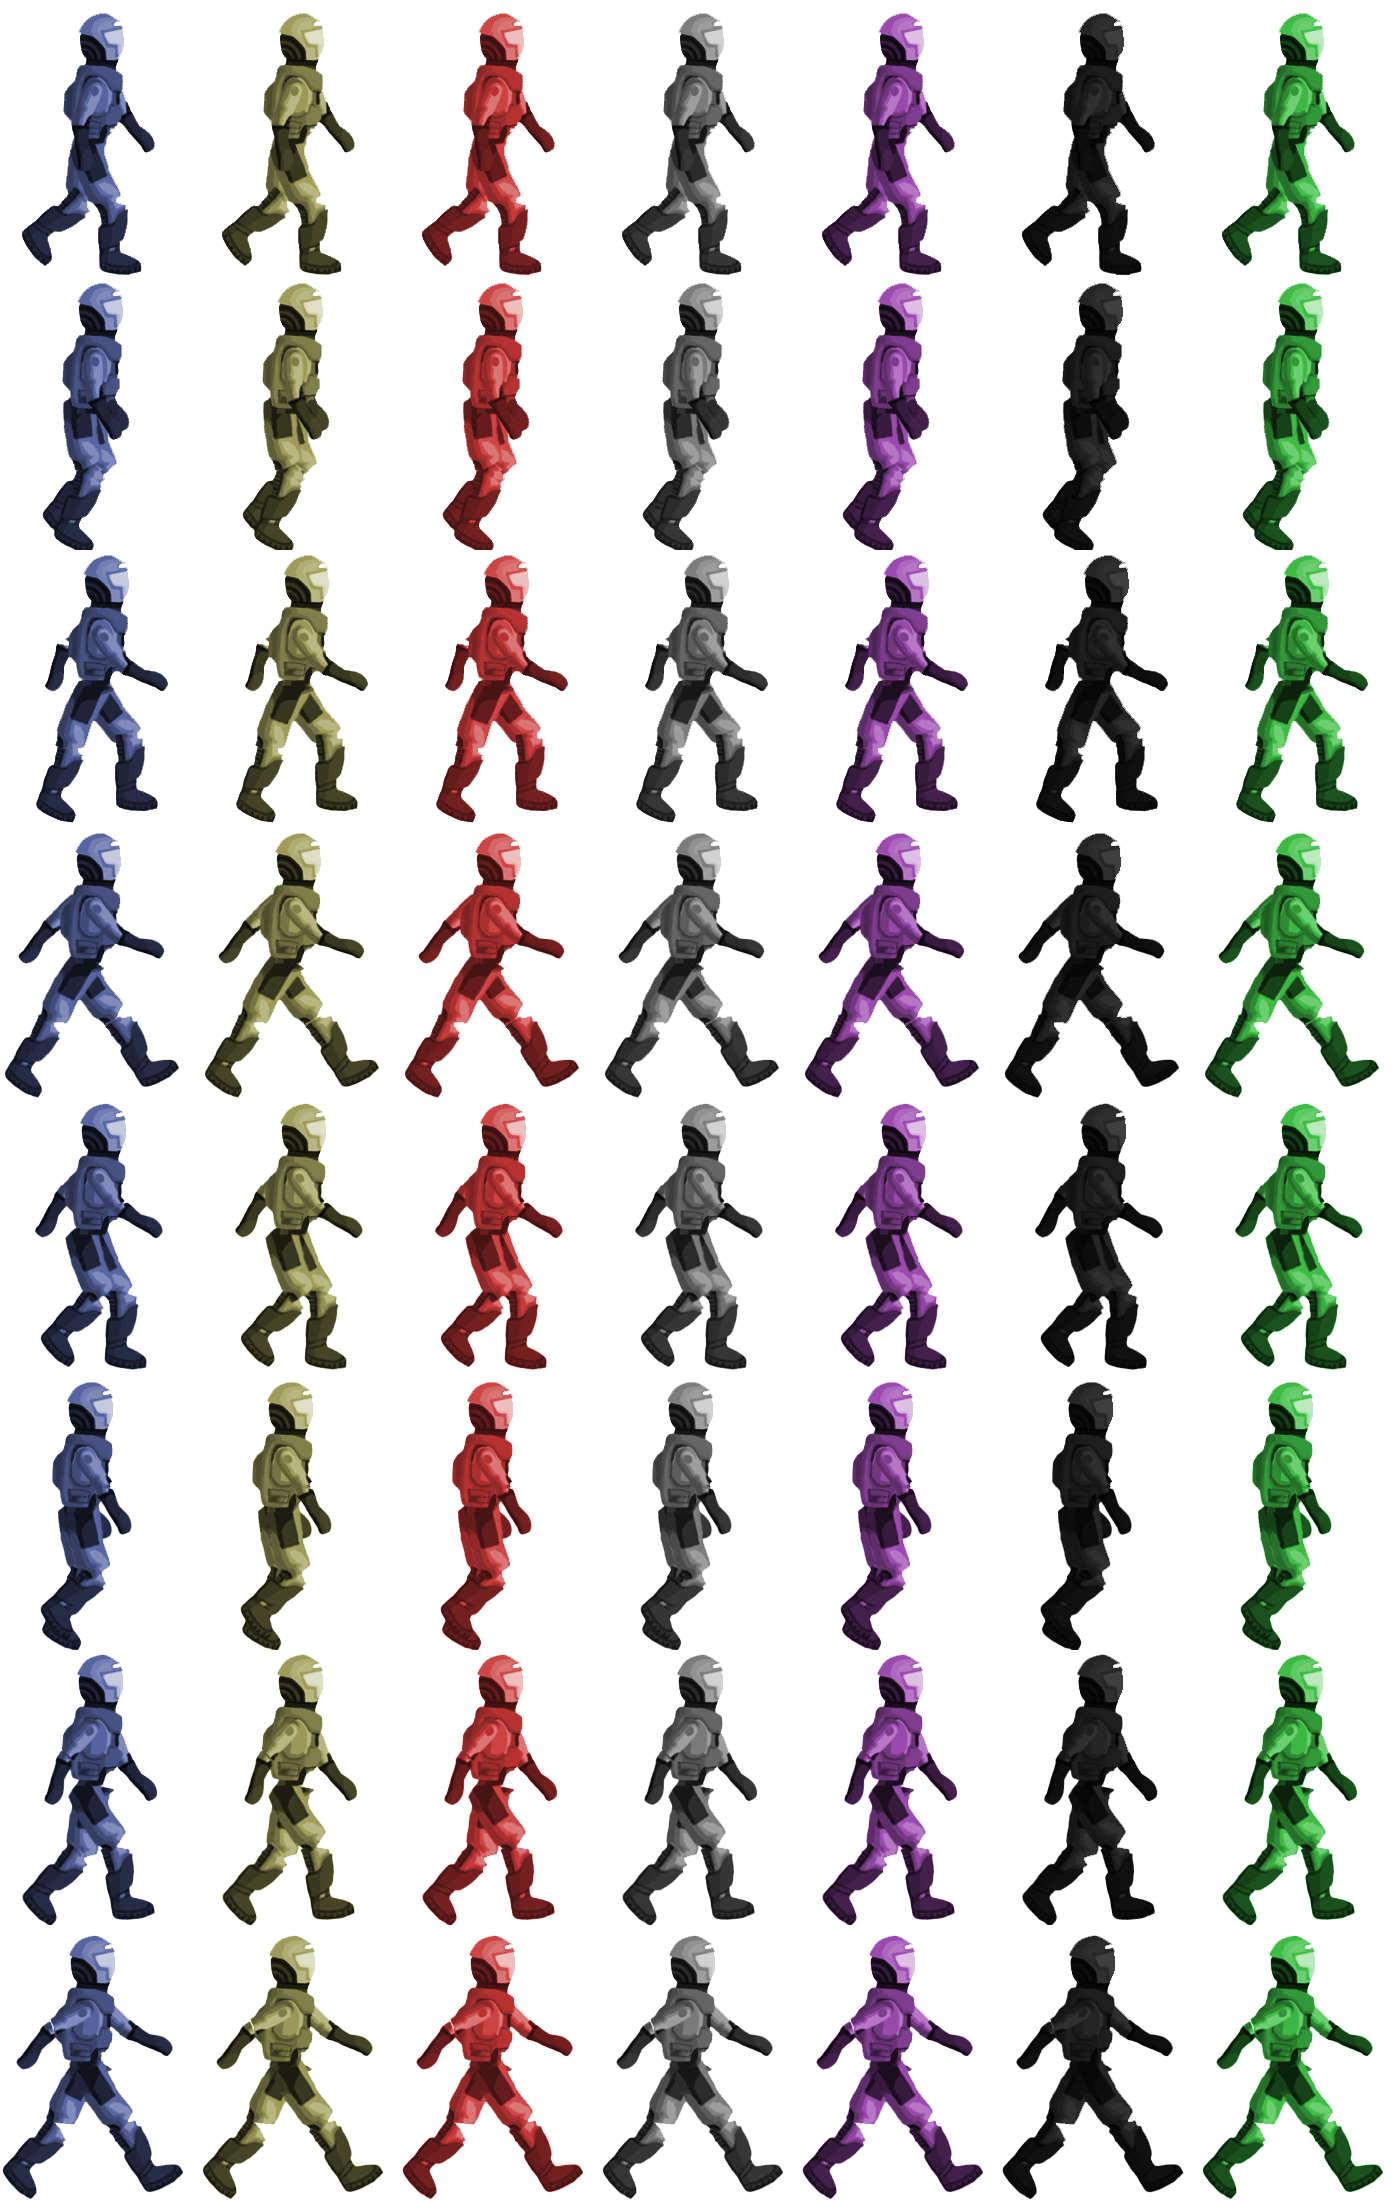
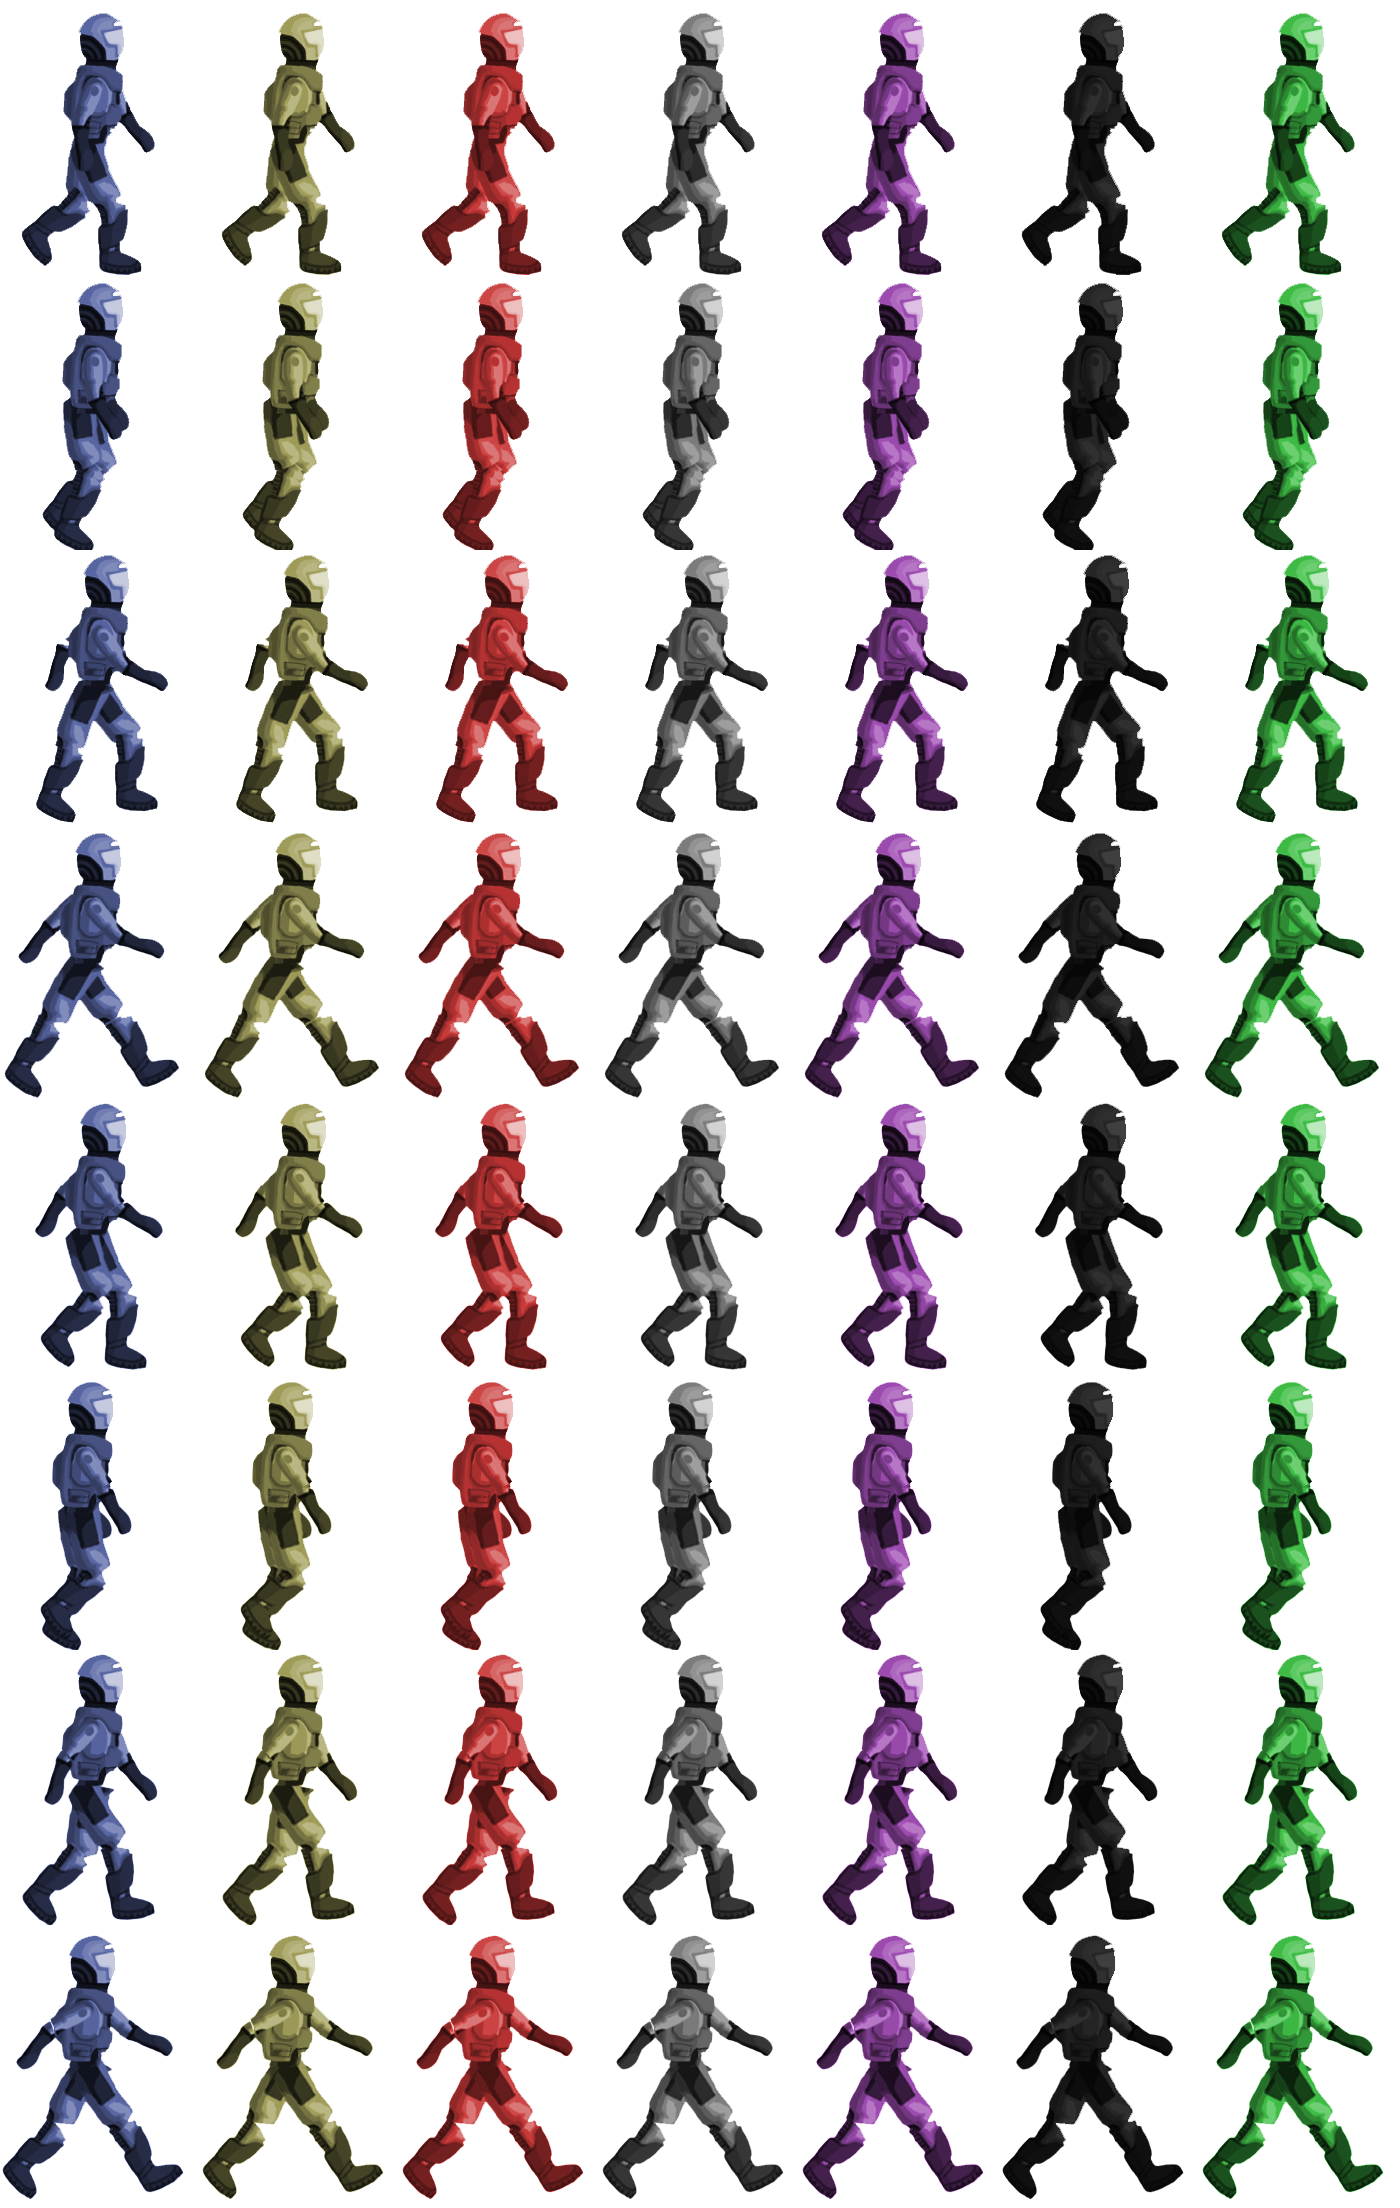
Image rendering bug fixed via a different method of scaling bufferImage, the flashing black box problem still needs to be fixed. The player sprite is lengthened by 8 pixels to prevent rendering image out of bounds of the spritesheet.

diff --git a/src/edu/arizona/GameObject.java b/src/edu/arizona/GameObject.java
@@ -4,6 +4,7 @@ import java.awt.AlphaComposite;
 import java.awt.Graphics2D;
 import java.awt.Image;
 import java.awt.Rectangle;
+import java.awt.RenderingHints;
 import java.awt.geom.AffineTransform;
 import java.awt.image.AffineTransformOp;
 import java.awt.image.BufferedImage;
@@ -80,14 +81,18 @@ abstract class GameObject {
 		this.subImgWidth = subImgWidth;
 		this.subImgHeight = subImgHeight;
 		try {
-			BufferedImage before = ImageIO.read(new File(IMAGE_DIRECTORY + img));
-			int w = before.getWidth();
-			int h = before.getHeight();
-			spriteSheet = new BufferedImage(w, h, BufferedImage.TYPE_INT_ARGB);
-			AffineTransform at = new AffineTransform();
-			at.scale(scale, scale);
-			AffineTransformOp scaleOp = new AffineTransformOp(at, AffineTransformOp.TYPE_BILINEAR);
-			spriteSheet = scaleOp.filter(before, spriteSheet);
+			spriteSheet = ImageIO.read(new File(IMAGE_DIRECTORY + img));
+			
+			int newWidth = new Double(spriteSheet.getWidth() * scale).intValue();
+			int newHeight = new Double(spriteSheet.getHeight() * scale).intValue();
+			
+			BufferedImage resized = new BufferedImage(newWidth, newHeight, spriteSheet.getType());
+		    Graphics2D g = resized.createGraphics();
+		    g.setRenderingHint(RenderingHints.KEY_INTERPOLATION, RenderingHints.VALUE_INTERPOLATION_BILINEAR);
+		    g.drawImage(spriteSheet, 0, 0, newWidth, newHeight, 0, 0, spriteSheet.getWidth(), spriteSheet.getHeight(), null);
+		    g.dispose();
+		    
+		    spriteSheet = resized;
 
 			updateSubImage();
 		} catch (IOException e) {
@@ -101,7 +106,7 @@ abstract class GameObject {
 	 */
 	protected void updateSubImage() {
 		currImage = spriteSheet.getSubimage(subImgWidth * (visRange / Main.SPECTRUM_MAJOR_TICKS),
-				0, subImgWidth, subImgHeight);
+			0, subImgWidth, subImgHeight);
 	}
 
 	/**

diff --git a/src/edu/arizona/Player.java b/src/edu/arizona/Player.java
@@ -64,7 +64,7 @@ public class Player extends GameObject {
 		int subx = subImgWidth * (visRange / Main.SPECTRUM_MAJOR_TICKS);
 		int suby = subImgHeight * (currentFrame - 1);
 		currImage = spriteSheet.getSubimage(subx, suby, subImgWidth, subImgHeight);
-
+		
 		if (isFacingLeft) {
 			AffineTransform tx = AffineTransform.getScaleInstance(-1, 1);
 			tx.translate(-currImage.getWidth(null), 0);
